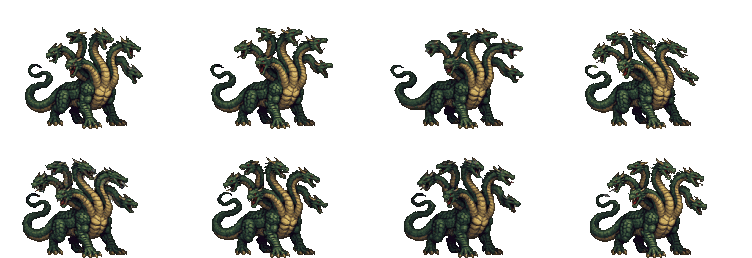
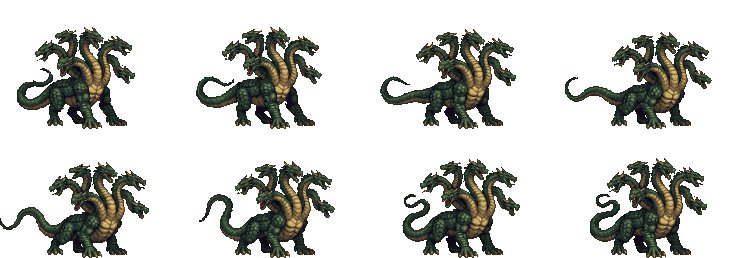
Coups reçus : le Dragon, l'Hydre et le Démon faits avec le second modèle de PixelLab

diff --git a/tools/art/METHODE.md b/tools/art/METHODE.md
@@ -325,7 +325,12 @@ les clés et le dossier `art-candidats/` sont décrits dans `CLAUDE.md` ; l'hist
   ground, the upper body and head are thrown back… ») **et le retour à part** (clé → départ : « recovers from a blow:
   straightens up… »), pour que le corps vive aussi en revenant ; la feuille : l'aller, le retour, la pose de départ
   (8 images). « is hit hard » fait encore dessiner un éclat à l'image 3 : la remplacer par la 4e. Des morceaux détachés
-  (une tête de trop pour l'Hydre) : les retirer ; un éclair blanc : l'effacer.
+  (une tête de trop pour l'Hydre) : les retirer ; un éclair blanc : l'effacer. L'utilisateur a pourtant refusé ces
+  images clés (on voit l'image écrasée). **Le mieux pour ces trois : le second modèle (`minimax`, avec le « sujet »,
+  retour à la pose de départ, 8 images)**, sans image clé : « takes a heavy blow to the chest and recoils: the head and
+  neck jerk back, the wings flinch, the body sways back on its legs, then it recovers; no effects » (le Dragon se tasse,
+  le Démon se plie un peu) ; il dessine un effet sur les 1 ou 2 premières images : les remplacer par une image suivante.
+  À essayer en premier pour une grande créature.
   Le jeu ajoute un recul de 9 pixels de l'écran (`Recoil`) : la page de revue le montre aussi. Retirer des effets à la
   main : par rectangles, n'effacer que les pixels clairs (ou jaune vif sur des cheveux blonds) ; sur le corps, leur donner
   la couleur du corps voisine plutôt que de faire un trou ; ou reprendre une image voisine.
